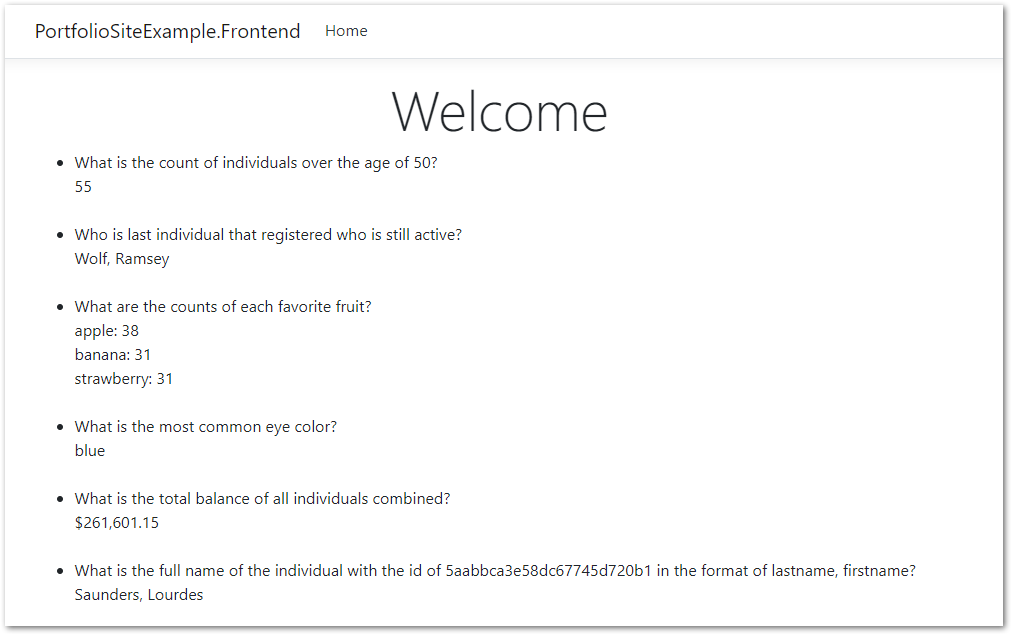
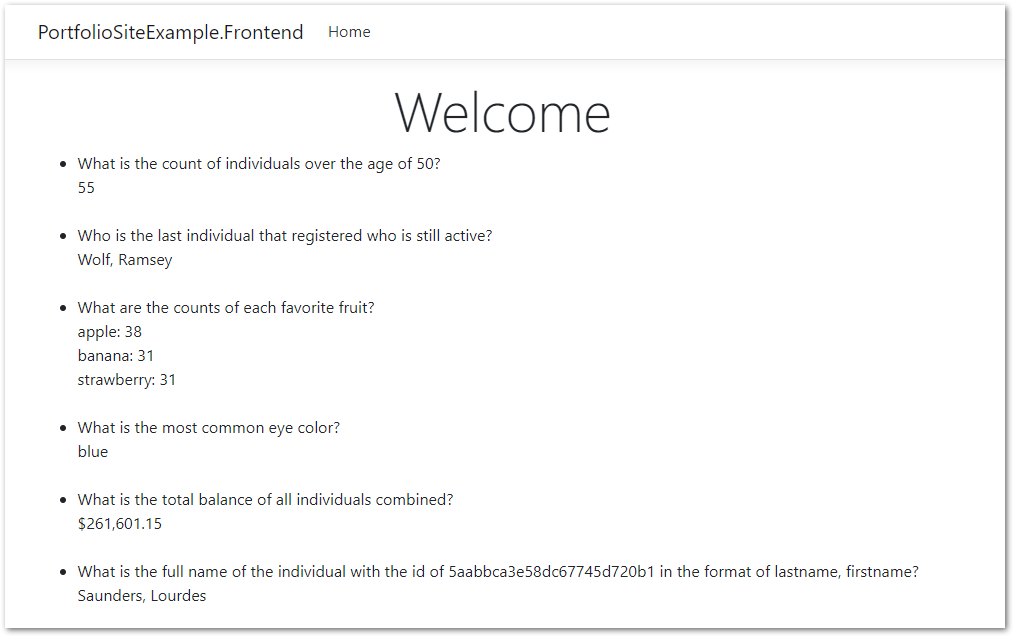
Update wording and screenshot

diff --git a/PortfolioSiteExample/PortfolioSiteExample.DockerComposeApp/PortfolioSiteExample.Api.Services/DataProcessingService.cs b/PortfolioSiteExample/PortfolioSiteExample.DockerComposeApp/PortfolioSiteExample.Api.Services/DataProcessingService.cs
@@ -140,7 +140,7 @@ namespace PortfolioSiteExample.Api.Services
                 // Only permit one thread at a time
                 lock (lockObj)
                 {
-                    // If the database table is still empty, then load and insert the records
+                    // If the database table is still empty, then insert the records
                     if (_context.Answers.Count() == 0)
                     {
                         foreach (var answer in answerResponse.Answer)
